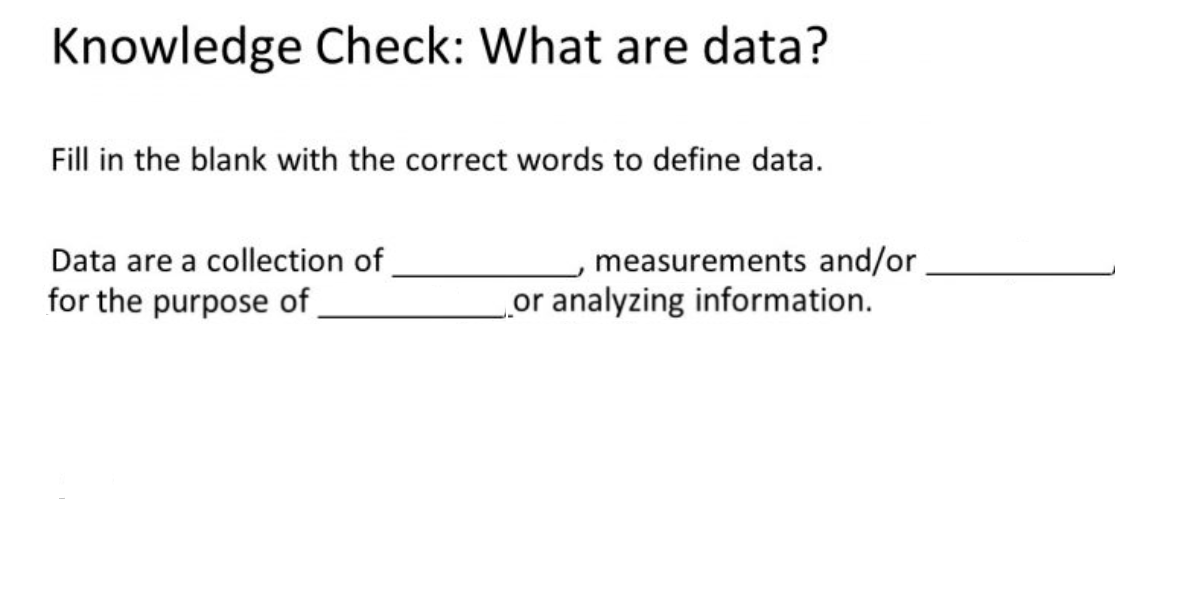
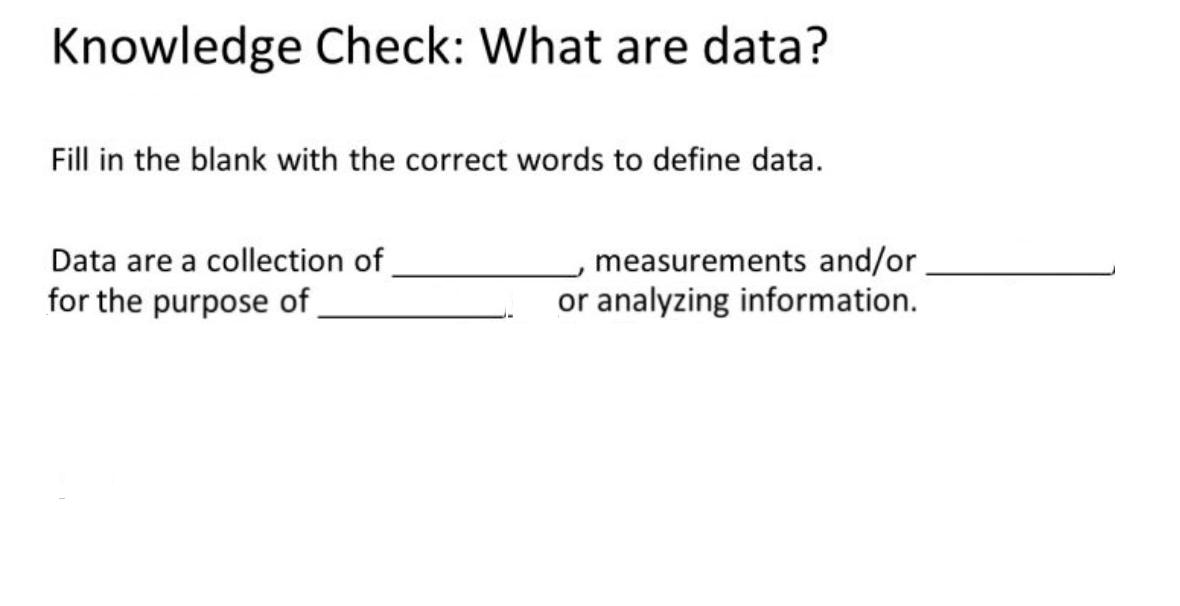
stepstone fixes

Changed region(s): [[0.4271, 0.4752, 0.7932, 0.5347]]

diff --git a/BiologyAnimation/InfectiousDiseases/WhatAreData/index.html b/BiologyAnimation/InfectiousDiseases/WhatAreData/index.html
@@ -34,7 +34,7 @@
 	  
 		<div class="question" style="top:25.7%; left:33.1%; width:16.5%; height:4%" id=1></div>
         <div class="question" style="top:25.7%; left:78%; width:16.5%; height:4%" id=2></div>
-        <div class="question" style="top:31%; left:23%; width:19%; height:3.9%" id=3></div>
+        <div class="question" style="top:31%; left:27%; width:19%; height:3.9%" id=3></div>
      
 		
       </div>

diff --git a/BiologyAnimation/ClinicalTrials/CountTheCosts/css/style.css b/BiologyAnimation/ClinicalTrials/CountTheCosts/css/style.css
@@ -37,11 +37,11 @@ div.question-container {
 
 @media screen and (max-width: 480px) { 
     html, body {
-        height: 800px;
+        height: 900px;
     }
 
     div#master-container {
-        height: 800px;
+        height: 900px;
     }
 }
 
